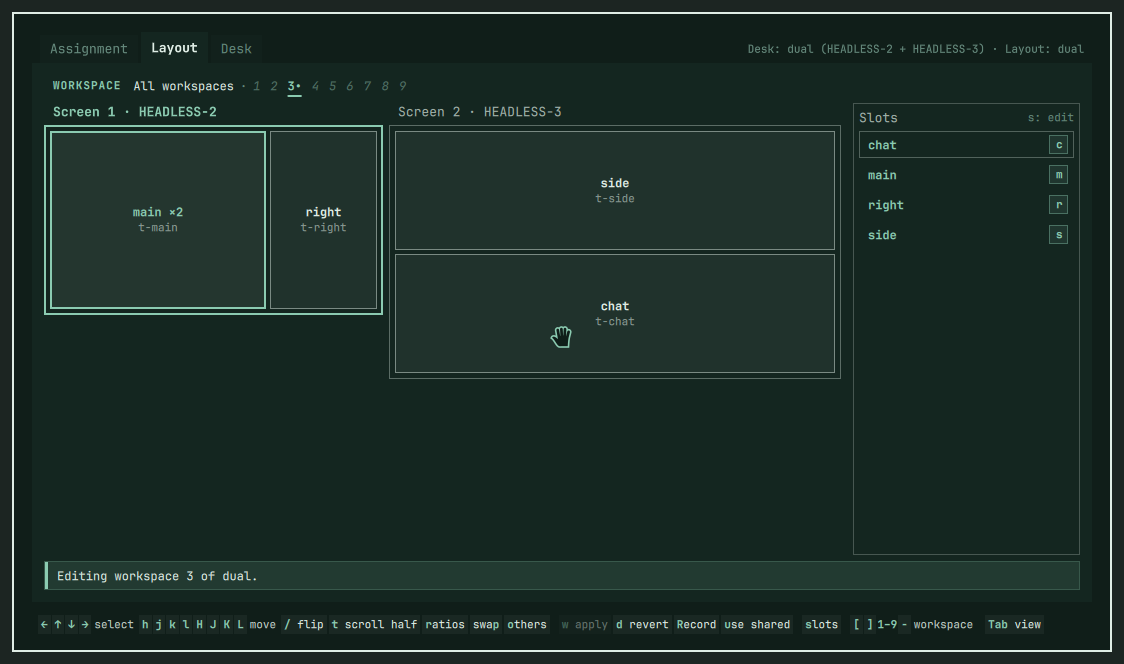
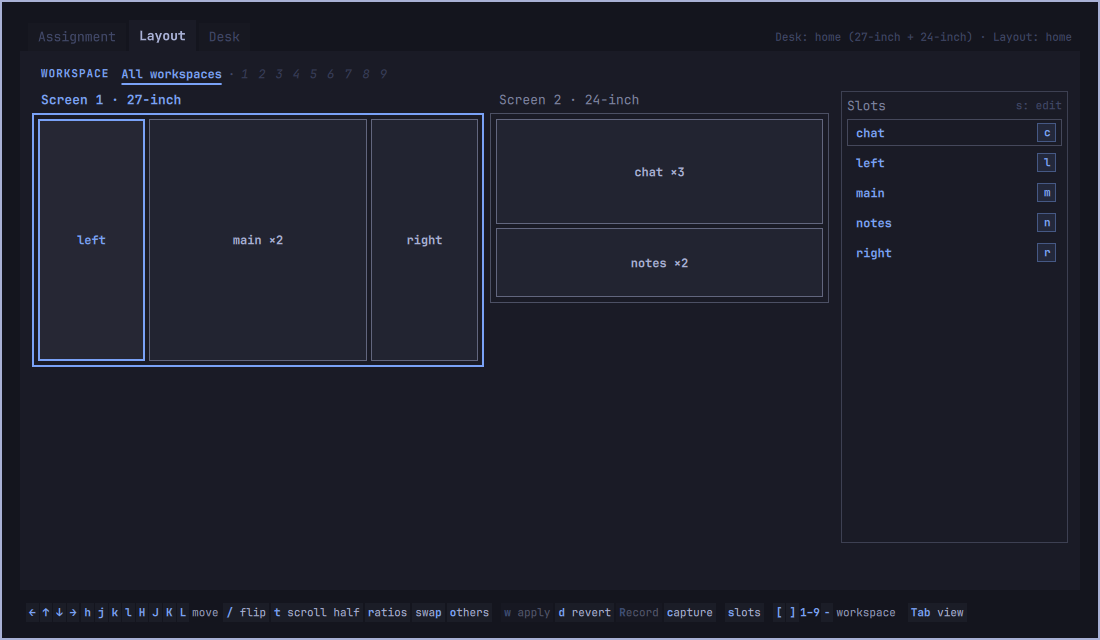
docs(readme): real screenshots instead of the diagram
The ASCII diagram in "The idea in 4 concepts" gives way to the real
thing: both screens with every window in its slot, the Assignment tab
mid-drag and the Desk tab's desk maps; Quick start A shows the capture
preview. The hero is the Layout tab (preview.png, also what Omarchy's
plugin list shows), with a light-theme variant for light mode.

diff --git a/README.md b/README.md
@@ -2,7 +2,13 @@
 
 **Name your slots once — every app finds its place on every workspace, on every screen, at every desk you plug into.**
 
-![The hyprslots editor: the Layout tab on a two-screen desk](preview.png)
+<picture>
+  <source media="(prefers-color-scheme: light)" srcset="docs/screenshots/layout-tab-light.png">
+  <img alt="The hyprslots editor: the Layout tab on a two-screen desk" src="preview.png">
+</picture>
+
+*The editor's Layout tab: slots `left`, `main` and `right` on screen 1, `chat` and `notes` on screen 2,
+shared by every workspace.*
 
 hyprslots is a window layout plugin for [Omarchy](https://omarchy.org) (Hyprland). You set it up once in
 an editor in Omarchy's shell; from then on every window you open goes straight to its place.
@@ -17,22 +23,25 @@ exact ratios (`main` twice as wide as `right`), or scrolling columns, half or fu
 workspaces share one layout; a workspace that needs another arrangement gets its own. A slot that
 nothing fills on a workspace takes no room there.
 
+![Two screens: a terminal, nvim and docs side by side on the left screen, team chat and notes stacked on the right one](docs/screenshots/desktop-layout.png)
+
+*What you get: workspace 1 with every window in its slot, on both screens.*
+
 **Assignments** say which app fills which slot on each workspace. Windows go there by themselves
 when they open, even when you open them on another workspace.
 
-```
- Screen 1 (laptop)    Screen 2 (ultrawide)
-┌───────────────┐   ┌──────────┬──────────────────────┬──────────┐
-│     notes     │   │   left   │         main         │  right   │
-└───────────────┘   └──────────┴──────────────────────┴──────────┘
- workspace 3:  main = terminal in ~/deltaf   left = Chrome, "DeltaF" profile   notes = Obsidian
- workspace 4:  main = Firefox                right = Slack       (left and notes close up)
-```
+![The Assignment tab: workspace 1's slots, the editor's window dragged onto main](docs/screenshots/assignment-tab.png)
+
+*The Assignment tab: drag a window onto its slot (or select it and press `a`).*
 
 **Desks** are your monitor setups: the laptop alone, docked with an ultrawide, the office… hyprslots
 recognises the one you are at from the monitors connected, and each desk uses a layout made for its
 number of screens (two desks can share one). Super+1–9 switch every screen together: workspace 3
 shows on all of them at once, each screen with its part of the layout.
+
+![The Desk tab: desks home and laptop with their monitor maps and layouts](docs/screenshots/desk-tab.png)
+
+*The Desk tab: each desk drawn as its monitors stand, the one you are at marked ●.*
 
 ## Install
 
@@ -78,6 +87,9 @@ which says **Start with your slots**. Pick one of two ways.
 4. Choose `a` (all workspaces share this arrangement) or `o` (only this workspace).
 5. Check the preview: each window becomes a slot named after its app (rename it later), and the
    picture shows the arrangement. Press `y`.
+
+   ![The capture preview: an editor and a terminal about to become slots, with a Yes/No line](docs/screenshots/capture-preview.png)
+
 6. **Ctrl+S** saves.
 
 **B. Start from scratch**
